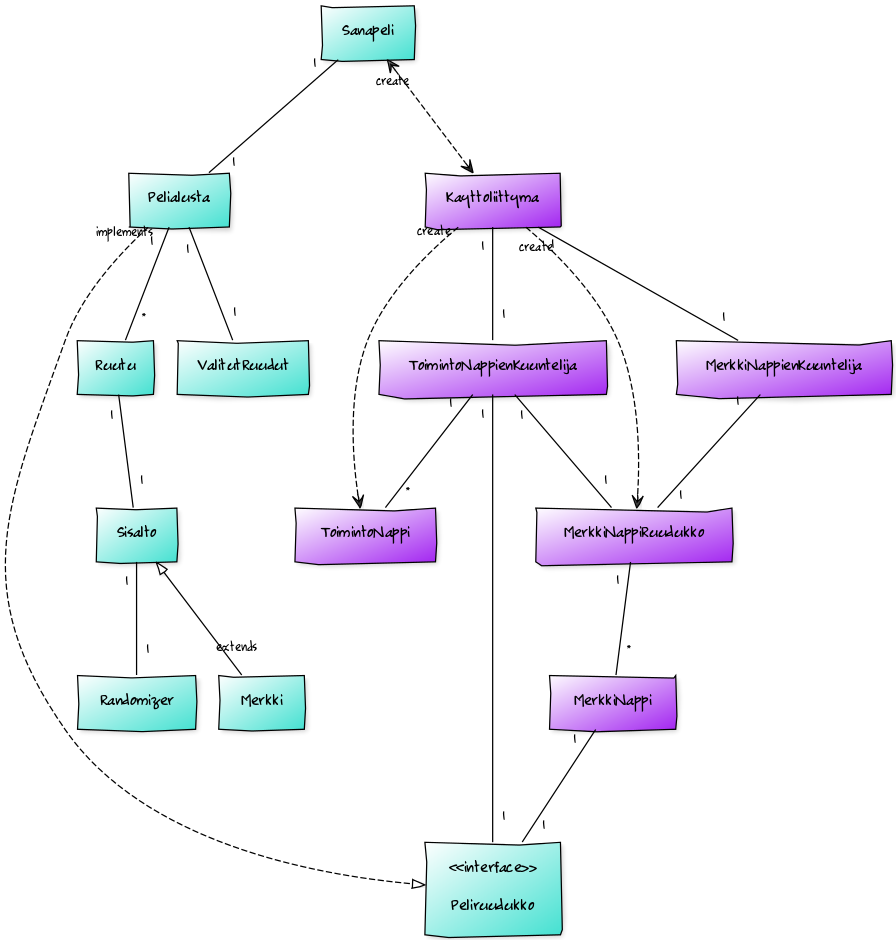
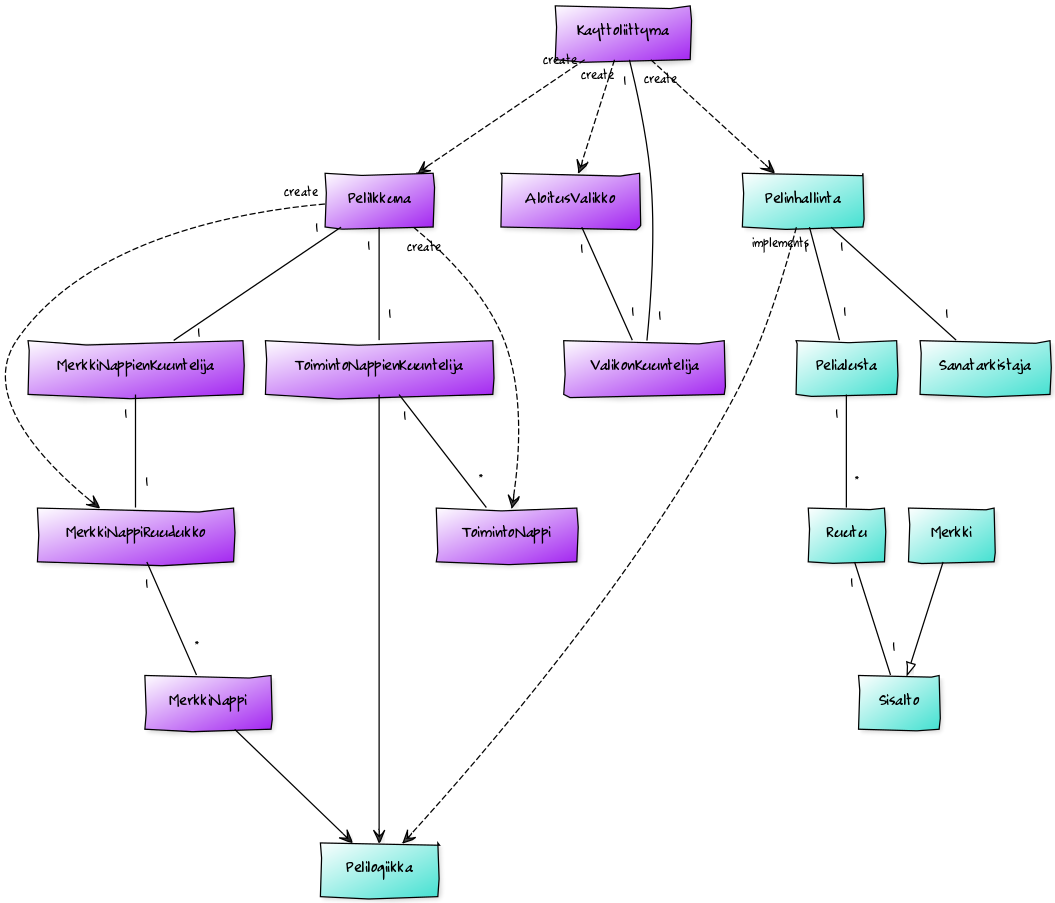
lopullinen versio

diff --git a/Sanaruutupeli/src/main/java/sanapeli/logiikka/Pelinhallinta.java b/Sanaruutupeli/src/main/java/sanapeli/logiikka/Pelinhallinta.java
@@ -30,11 +30,6 @@ public class Pelinhallinta implements Pelilogiikka {
     }
 
     @Override
-    public void lopeta() {
-        System.exit(0);
-    }
-
-    @Override
     public Ruutu[][] getRuudukko() {
         return pelialusta.getRuudukko();
     }

diff --git a/Sanaruutupeli/src/main/java/sanapeli/kayttoliittyma/ToimintoNappienKuuntelija.java b/Sanaruutupeli/src/main/java/sanapeli/kayttoliittyma/ToimintoNappienKuuntelija.java
@@ -76,7 +76,7 @@ public class ToimintoNappienKuuntelija implements ActionListener {
         }
 
         if (napit.kaikkiInaktiivisia()) {
-            logiikka.lopeta();
+            kayttis.lopeta();
         }
     }
 

diff --git a/Sanaruutupeli/src/main/java/sanapeli/logiikka/Pelialusta.java b/Sanaruutupeli/src/main/java/sanapeli/logiikka/Pelialusta.java
@@ -13,7 +13,7 @@ public class Pelialusta {
     private ArrayList<Ruutu> valitut;
 
     /**
-     * Konstruktori 1.
+     * Konstruktori.
      *
      * @param koko luotavan peliruudukon sivun pituus ruuduissa
      */

diff --git a/Sanaruutupeli/src/main/java/sanapeli/logiikka/Pelilogiikka.java b/Sanaruutupeli/src/main/java/sanapeli/logiikka/Pelilogiikka.java
@@ -20,8 +20,6 @@ public interface Pelilogiikka {
     
     void paivitaRuudukko();
 
-    public void lopeta();
-
     public int laskePisteet();
     
     public void kaynnista();

diff --git a/Sanaruutupeli/src/main/java/sanapeli/logiikka/SananTarkistaja.java b/Sanaruutupeli/src/main/java/sanapeli/logiikka/SananTarkistaja.java
@@ -1,6 +1,5 @@
 package sanapeli.logiikka;
 
-import java.io.File;
 import java.io.InputStream;
 import java.util.HashSet;
 import java.util.Scanner;

diff --git a/Sanaruutupeli/src/main/java/sanapeli/logiikka/Satunnaistaja.java b/Sanaruutupeli/src/main/java/sanapeli/logiikka/Satunnaistaja.java
@@ -1,6 +1,5 @@
 package sanapeli.logiikka;
 
-import java.io.File;
 import java.io.InputStream;
 import java.util.ArrayList;
 import java.util.List;

diff --git a/dokumentaatio/aiheenKuvausJaRakenne.md b/dokumentaatio/aiheenKuvausJaRakenne.md
@@ -4,9 +4,9 @@
 
 Toteutetaan sanapeli, jossa pelaajan tavoite on tyhjentää ruudukko kirjaimista muodostamalla niistä sanoja. Tavoitteena voi myös olla mahdollisimman korkea pistemäärä.
 
-Pelialustana toimii ruudukko, jonka jokaiseen ruutuun liittyy sattumanvarainen kirjain. Kirjamia esiintyy niiden frekvenssien mukaisesti. Alussa muutama kirjain ruudun keskellä tulee näkyviin. Yhden ruudukossa olevan kirjaimen voi käyttää muodostettavassa sanassa vain kerran. Kirjainta klikatessa se vaihtaa väriä ja sen sisältämä kirjain lisätään sanaehdotuksen jatkoksi. Sanaehdotus näyttää sillä hetkellä valitut kirjaimet valintajärjestyksessä. 
+Pelialustana toimii ruudukko, jonka jokaiseen ruutuun liittyy sattumanvarainen kirjain. Pelin alussa pelaaja valitsee ruudukon koon aloitusvalikosta, jossa näkyyvät myös pelin ohjeet. Kirjamia esiintyy niiden frekvenssien mukaisesti. Alussa muutama kirjain ruudun keskellä tulee näkyviin. Yhden ruudukossa olevan kirjaimen voi käyttää muodostettavassa sanassa vain kerran. Kirjainta klikatessa se vaihtaa väriä ja sen sisältämä kirjain lisätään sanaehdotuksen jatkoksi. Sanaehdotus näyttää sillä hetkellä valitut kirjaimet valintajärjestyksessä. 
 
-Oikeat sanat tarkistetaan sanalistasta, joka luetaan tiedostosta. Jos tiedoston lukeminen ei onnistu ja sanalista on tyhjä, tarkistetaan vain, että sana on pidempi kuin yksi merkki. Jos valituista kirjaimista muodostunut sana on olemassa, pelaaja voi "hyväksy"-nappia painamalla hyväksyä sanan. Tällöin valitut kirjaimet poistuvat ruudukosta ja poistuneiden kirjainruutujen viereen ilmestyy uusia sattumanvaraisia kirjaimia. Hyväksytyn sanan pisteet lasketaan kirjainten yleisyyden perusteella niin, että yleisimmistä saa vähemmän pisteitä ja harvinaisemmista enemmän. Kokonaispisteet saadaan vielä kertomalla summa sanan pituudella. Jos sanaa ei ole olemassa, "hyväksy"-nappia painettaessa valitut kirjaimet poistuvat sanaehdotuksesta ja ovat jälleen käytettävissä. "Tyhjennä"-nappi tyhjentää valitut kirjamet ja niitä voi jälleen klikata ruudukossa. Peli jatkuu kunnes ruudukko on tyhjennetty kirjaimista tai jäljellä olevista kirjaimista ei enää voi muodostaa järkevää sanaa. "Lopeta" -nappi lopettaa pelin millon tahansa.
+Oikeat sanat tarkistetaan sanalistasta, joka luetaan tiedostosta. Jos tiedoston lukeminen ei onnistu ja sanalista on tyhjä, tarkistetaan vain, että sana on pidempi kuin yksi merkki. Jos valituista kirjaimista muodostunut sana on olemassa, pelaaja voi "hyväksy"-nappia painamalla hyväksyä sanan. Tällöin valitut kirjaimet poistuvat ruudukosta ja poistuneiden kirjainruutujen viereen ilmestyy uusia sattumanvaraisia kirjaimia. Hyväksytyn sanan pisteet lasketaan kirjainten yleisyyden perusteella niin, että yleisimmistä saa vähemmän pisteitä ja harvinaisemmista enemmän. Kokonaispisteet saadaan vielä kertomalla summa sanan pituudella. Jos sanaa ei ole olemassa, "hyväksy"-nappia painettaessa valitut kirjaimet poistuvat sanaehdotuksesta ja ovat jälleen käytettävissä. "Tyhjennä"-nappi tyhjentää valitut kirjamet ja niitä voi jälleen klikata ruudukossa. Peli jatkuu kunnes ruudukko on tyhjennetty kirjaimista tai jäljellä olevista kirjaimista ei enää voi muodostaa järkevää sanaa. "Lopeta" -nappi lopettaa pelin ja palaa aloitusvalikkoon millon tahansa.
 
 Peliruudukko on oletuskooltaa 7x7, mutta pelaajalle voisi antaa mahdollisuuden ennen pelin alkua valita ruudukon koko. Voidaan myös lisätä ajastettu pelityyppi, jossa sanan löytäminen lisää peliaikaa. Vaihtelun tai haasteen vuoksi pelin voisi myös kääntää englanniksi tai jollekin muulle kielelle. 
 
@@ -21,15 +21,15 @@ Peliruudukko on oletuskooltaa 7x7, mutta pelaajalle voisi antaa mahdollisuuden e
 
 ##Rakennekuvaus
 
-Ohjelmassa on kaksi pakkausta, sanapeli.logiikka ja sanapeli.kayttoliittyma. Pakkauksia yhdistää rajapinta Pelilogiikka, jonka toteuttaa logiikan puolella Pelinhallinta-luokka. Pelinhallinta luo pelialustan, graafisen käyttöliittymän ja sanantarkistajan. Pelialusta-luokka sisältää kaksiulotteisen taulukkomuotoisen pelialustan, johon tallennetaan Ruutu-olioita. Pelialusta sisältää myös listan pelissä yhdellä hetkellä valittuna olevia nappeja vastaavista Ruutu-olioista. Ruutu-luokan attribuutteja ovat sen x- ja y-koordinaatit sekä sisältö. Sisalto on abstrakti luokka, jonka Merkki-luokka perii. Merkki-luokka sisältää merkin ja siitä saatavat pisteet. Merkki arvotaan Satunnaistaja-olion avulla kirjaimet sisältävästä tiedostosta. SananTarkistaja-luokka lukee käytössä olevan sanalistan tiedostosta ja tarkistaa, onko sille annettu sana listalla.
+Ohjelmassa on kaksi pakkausta, sanapeli.logiikka ja sanapeli.kayttoliittyma. Pakkauksia yhdistää rajapinta Pelilogiikka, jonka toteuttaa logiikan puolella Pelinhallinta-luokka. Pelinhallinta luo pelialustan ja sanantarkistajan. Pelialusta-luokka sisältää kaksiulotteisen taulukkomuotoisen pelialustan, johon tallennetaan Ruutu-olioita. Pelialusta sisältää myös listan pelissä yhdellä hetkellä valittuna olevia nappeja vastaavista Ruutu-olioista. Ruutu-luokan attribuutteja ovat sen x- ja y-koordinaatit sekä sisältö. Sisalto on abstrakti luokka, jonka Merkki-luokka perii. Merkki-luokka sisältää merkin ja siitä saatavat pisteet. Merkki arvotaan Satunnaistaja-olion avulla kirjaimet sisältävästä tiedostosta. SananTarkistaja-luokka lukee käytössä olevan sanalistan tiedostosta ja tarkistaa, onko sille annettu sana listalla.
 
-Kayttoliittyma-luokka luo kaksi JFramea - AloitusValikon ja PeliIkkunan, niiden komponentit ja tapahtumienkuuntelijat. AloitusValikossa annetaan pelin ohjeet ja mahdollisuus valita ruudukon koko ja PeliIkkuna on varsinainen pelinäkymä. MerkkiNappiRuudukko luo nimensä mukaisesti MerkkiNappi-olioita sisältävän ruudukon. MerkkiNappi-oliot saavat tiedon sisältämästään merkistä logiikan puolelta Pelilogiikka-rajapinnan kautta. MerkkiNappienKuuntelija vaihtaa klikattujen nappien väriä, lisää niiden sisältämät merkit sanakenttään ja nappeja vastaavat ruudut Pelialustan valittujen listalle. ToimintoNappienKuuntelija vastaa ToimintoNappi-olioiden eli "hyväksy", "tyhjennä" ja "lopeta" -nappien klikkauksesta seuraavista tapahtumista. Se toimii yhteistyössä logiikan kanssa Pelilogiikka-rajapinnan kautta mm kun sana pitää tarkistaa ennen hyväksymistä ja uudet merkit päivittää pelialustalle hyväksymisen jälkeen.
+Kayttoliittyma-luokka luo kaksi JFramea - AloitusValikon ja PeliIkkunan, niiden komponentit ja tapahtumienkuuntelijat sekä Pelinhallinta-luokan. AloitusValikossa annetaan pelin ohjeet, mahdollisuus valita ruudukon koko ja aloittaa peli. PeliIkkuna on varsinainen pelinäkymä. MerkkiNappiRuudukko luo nimensä mukaisesti MerkkiNappi-olioita sisältävän ruudukon. MerkkiNappi-oliot saavat tiedon sisältämästään merkistä logiikan puolelta Pelilogiikka-rajapinnan kautta. MerkkiNappienKuuntelija vaihtaa klikattujen nappien väriä, lisää niiden sisältämät merkit sanakenttään ja nappeja vastaavat ruudut Pelialustan valittujen listalle. ToimintoNappienKuuntelija vastaa ToimintoNappi-olioiden eli "hyväksy", "tyhjennä" ja "lopeta" -nappien klikkauksesta seuraavista tapahtumista. Se toimii yhteistyössä logiikan kanssa Pelilogiikka-rajapinnan kautta mm. kun sana pitää tarkistaa ennen hyväksymistä ja uudet merkit päivittää pelialustalle hyväksymisen jälkeen.
 
 
 ##Luokkakaaviot
 
 - Ensisijainen luokkakaavio, jossa logiikka- ja käyttöliittymäpakkaukset eritelty
-![PakkausLuokkakaavio](/dokumentaatio/Luokkakaavio2.png "Pakkaus-luokkakaavio")
+![PakkausLuokkakaavio](/dokumentaatio/Luokkakaavio.png "Pakkaus-luokkakaavio")
 
 - Luokkakaavio, jossa myös kytkentärajoitukset
 ![Luokkakaavio](/dokumentaatio/YumlLuokkakaavio.png "YumlLuokkakaavio")

diff --git a/dokumentaatio/Testausdokumentaatio.md b/dokumentaatio/Testausdokumentaatio.md
@@ -1,0 +1,6 @@
+#Testausdokumentaatio
+
+##Automaattinen testaus
+Kaikki merkittävät luokat logiikkapuolella on testattu automaattisesti, toisin sanoen kaikki paitsi PelinHallinta ja Main. SananTarkistaja- ja Satunnaistaja-luokissa ei tiedoston lukemisen epäonnistumisesta johtuvan virheilmoituksen tai Scanner-olion close()-metodin toimintaa ole testattu, koska ne eivät mielestäni olleet oleellisia ohjelman toiminnan testauksen kannata. Virheilmoitukselle oli olemassa testit, mutta tiedostojen esittely InputStreameina File-muodon sijaan, jota toimiva jar-tiedosto vaati, "rikkoi" ne.  Lisäksi Satunnaistaja-luokan satunnainenMerkki()-metodissa oleva Collections.shuffle()-metodin toimintaa ei ole erikseen testattu, koska se vaatisi suhteellisen paljon työtä merkittävyyteensä nähden. Pelin toiminnasta voi nähdä, että esiintyvät merkit ovat satunnaisia.
+
+

diff --git a/dokumentaatio/tuntikirjanpito.md b/dokumentaatio/tuntikirjanpito.md
@@ -29,4 +29,5 @@ Päivä | Tunnit | Kuvaus
 17.10.2016 | 2 h | Käyttöliittymän rakenteen hiomista ja refaktorointia, aloitusvalikon ohjelmointia
 18.10.2016 | 1 h | Aloitusvalikon, peli-ikkunan ja käyttöliittymän yhteistyö toimimaan
 19.10.2016 | 1 h | Hienosäätöä, vikasietotila (jos tiedostoja ei voida lukea)
-20.10.2016 | 1 h | Checkstyle ja pit-raportit, luoto jar-tiedosto toimii oikein (paja)
+20.10.2016 | 1 h | Checkstyle ja pit-raportit, luotu jar-tiedosto toimii oikein (paja)
+21.10.2016 | 1 h | Luokkakaavioiden ja aihemäärittelyn päivitys, testausdokumentaation kirjoittaminen
